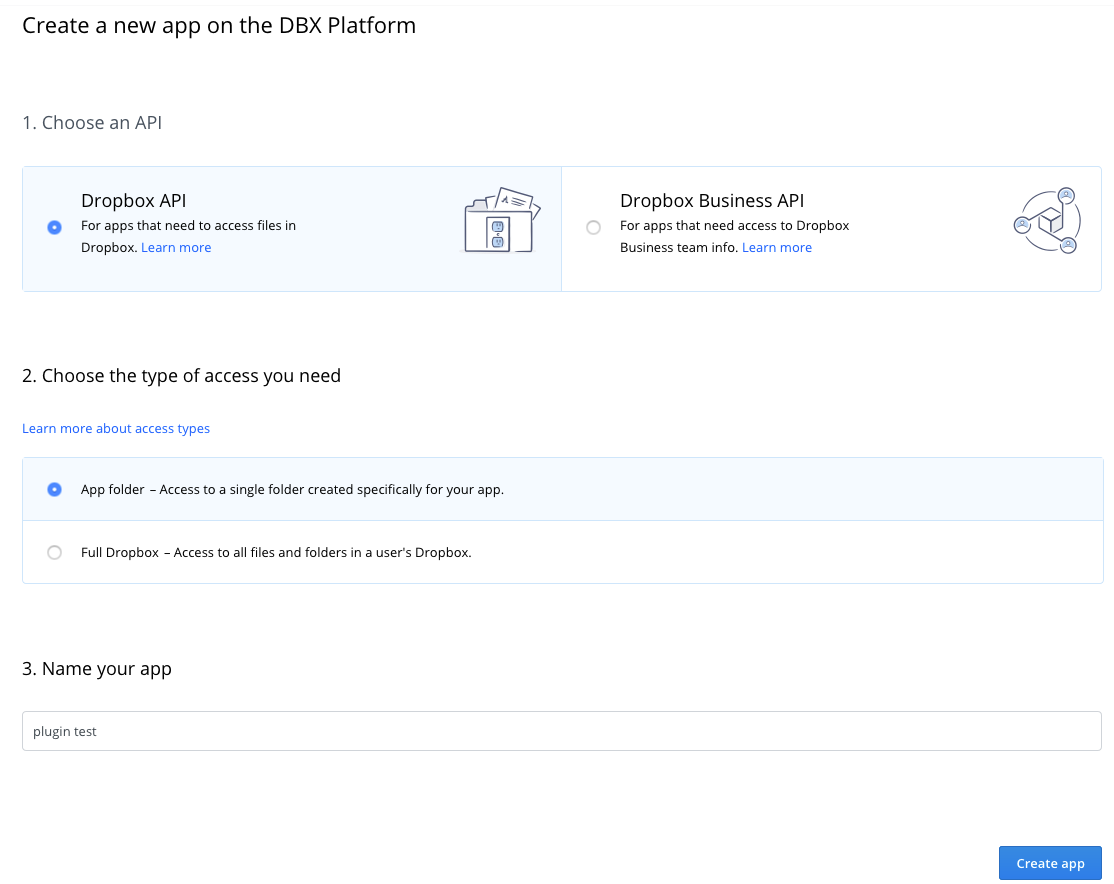
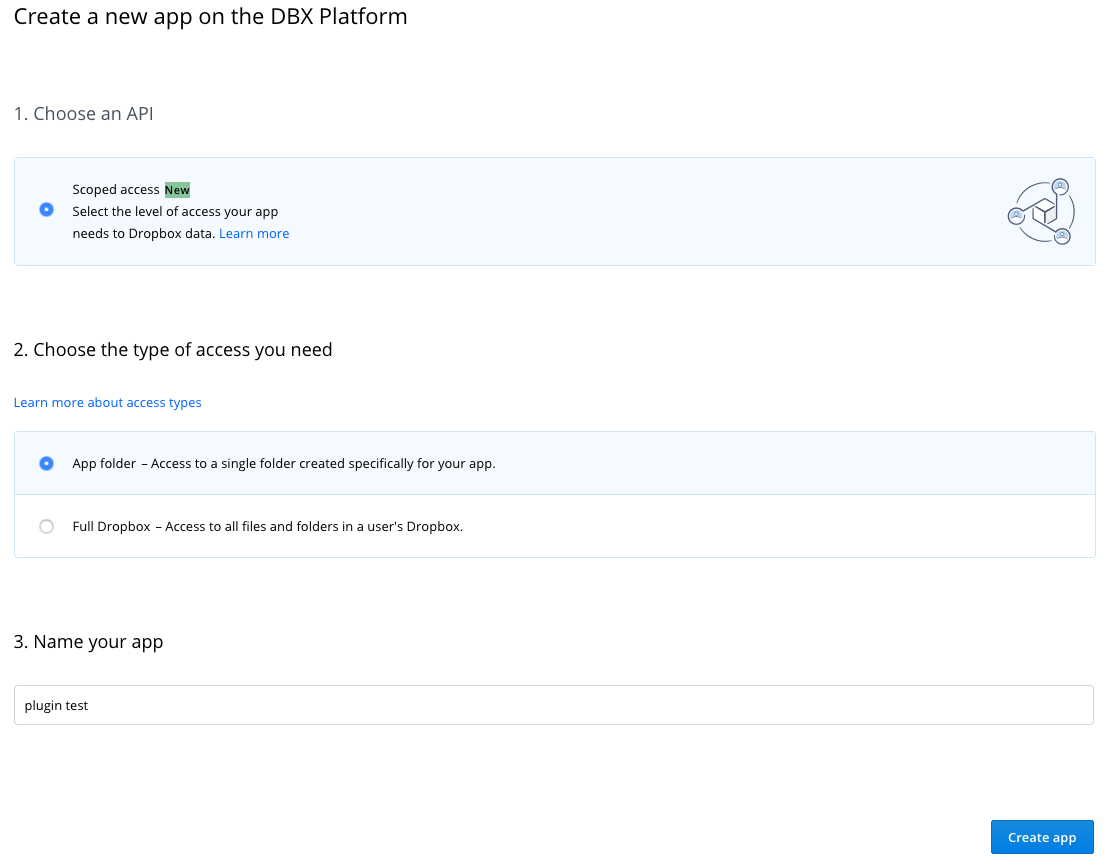
update "Backup synchronization - Dropbox" docs

diff --git a/plugins/backup-sync-dropbox/README.md b/plugins/backup-sync-dropbox/README.md
@@ -13,13 +13,17 @@ You can create a UNMS API token in Network -> Settings -> Users.
 To generate an access token:
 1. Go to the Dropbox App console - https://www.dropbox.com/developers/apps
 2. Click the "Create app" button.
-3. Choose the "Dropbox API" option.
+3. Choose the "Scoped access" option.
 ![Dropbox Api](docs/images/dropbox-api.png)
 4. Choose the "App folder" access type.
 5. Enter any name you want for the app, e.g. "UNMS backups".
 6. Submit the "Create app" form.
-7. You will be redirected to the app info page. Scroll to the "Generated Access Token", click "Generate" and copy the value into the plugin configuration.
-![Dropbox Api](docs/images/dropbox-token.png)
-The backups will then appear in the app folder, if you open you dropbox files, go to "Apps" and then to a folder named after your application:
-
-![Dropbox Api](docs/images/dropbox-apps.png)
+7. You will be redirected to the app info page.
+8. Switch to the "Permissions" tab and enable the `files.metadata.read` and `files.content.write` permissions.
+![Dropbox Permissions](docs/images/dropbox-permissions.png)
+9. Switch to the "Settings" tab, scroll to the "Access token expiration" and change the value to "No expiration".
+10. Then click the "Generate" button under the "Generated access token" section and copy the value into the plugin configuration.
+![Dropbox Token](docs/images/dropbox-token.png)
+  
+The backups will then appear in the app folder, if you open you dropbox files, go to "Apps" and then to a folder named after your application:  
+![Dropbox Apps](docs/images/dropbox-apps.png)
